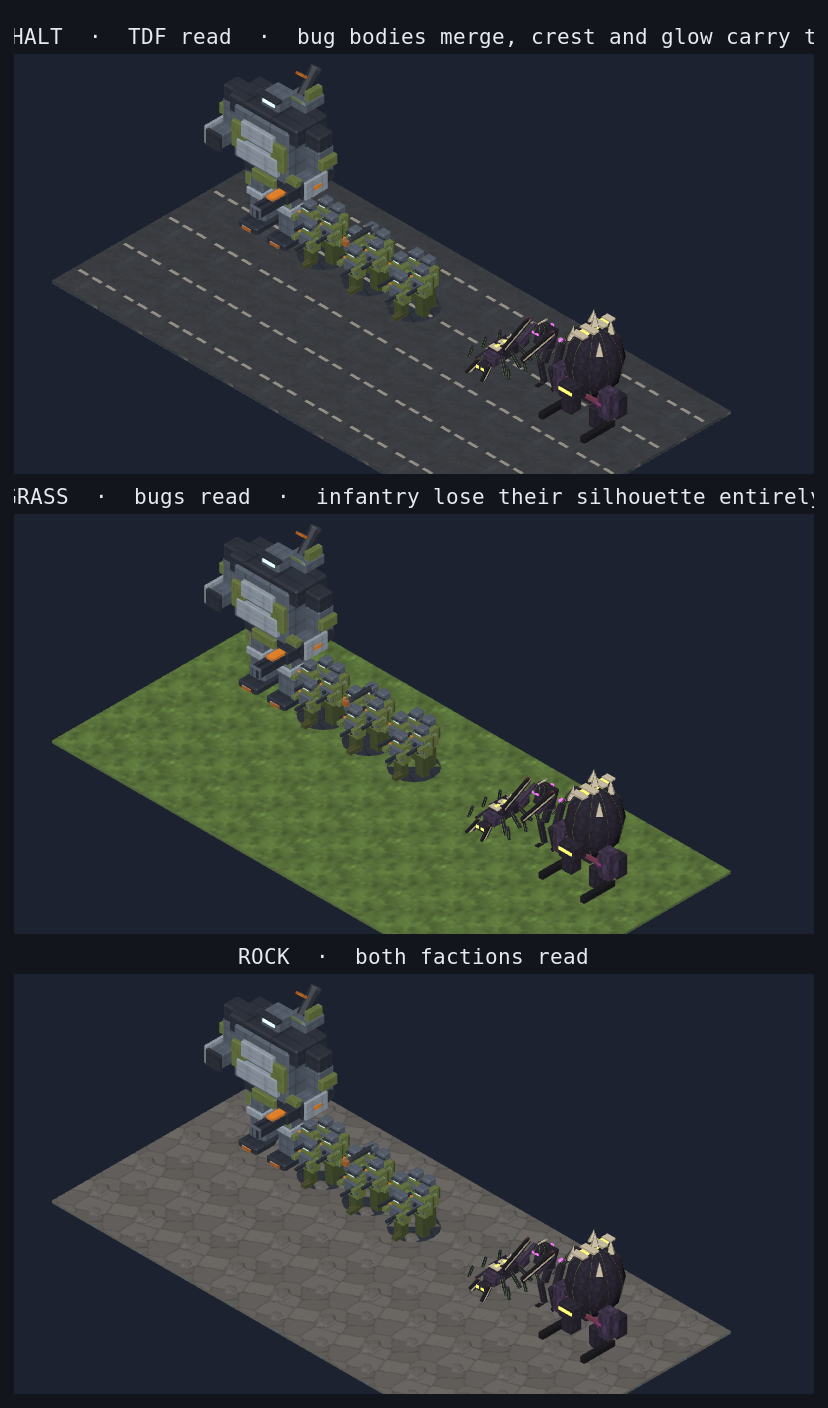
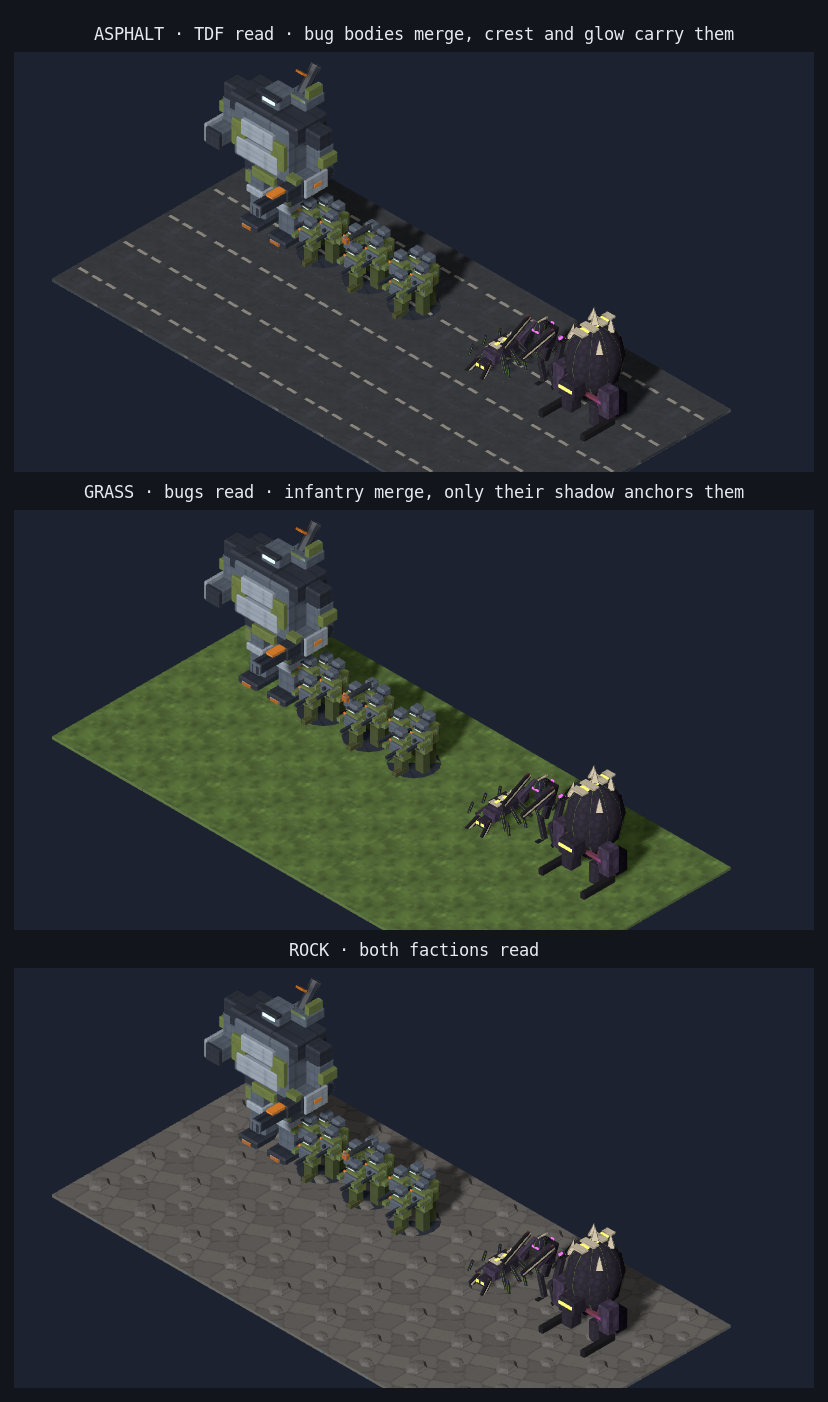
fix(graphics): name the shadow filter that actually runs, and light the read test like the game (#507)
Three follow-ups to #634, which shipped the shadows.

**The filter was not the one asked for.** three r185 deprecated
PCFSoftShadowMap: it silently falls back to PCFShadowMap and warns once
per scene. Confirmed on main -- two warnings a session in the e2e log.
So the code said soft, the comment explained why soft was chosen, and
hard PCF was what ran. Now it asks for what it gets, the log is quiet,
and the note says VSMShadowMap is the remaining soft option if the
edge is wanted back. Worth knowing for whoever weighs that: the 2048
map that timed the suite out was measured running this same filter,
since the soft one was never in play.

**The read test was lit differently from the game.** tools/art/preview
ran ambient 0.9 and key 2.2 with no shadows at all, against the game's
0.55 / 2.9 casting. §4.2.1 is the test that decides whether a faction
reads against a ground, and contact shadows are the one thing that
separates a shape from ground of its own tone -- so it was answering
the question under lighting the player never sees. It now uses the
shipped rig, and the committed plate is re-rendered under it.

**§12.1 still said "no shadow maps"** as a deliberate choice. It records
the shipped rig instead, with the frustum-follows-view reasoning, the
build-time flags, the filter trap above, and why the map is 1024.

Claude-Session: https://claude.ai/code/session_01WoHpNt23cPNbtTMc4rqhpF

diff --git a/tools/art/preview/scene.html b/tools/art/preview/scene.html
@@ -39,13 +39,30 @@
       });
       renderer.setSize(size, size);
       renderer.setPixelRatio(1);
+      renderer.shadowMap.enabled = true;
+      renderer.shadowMap.type = THREE.PCFShadowMap;
       document.body.appendChild(renderer.domElement);
       const scene = new THREE.Scene();
       scene.background = new THREE.Color(0x1c2230);
-      scene.add(new THREE.AmbientLight(0xffffff, 0.9));
-      const key = new THREE.DirectionalLight(0xffffff, 2.2);
-      key.position.set(2, 4, 3);
-      scene.add(key);
+      // The game's rig, from src/graphics/service/shadow-rig.ts and
+      // style guide §12.1 -- not a preview rig of its own. This page
+      // renders the read test (§4.2.1), and a read test lit differently
+      // from the game is testing a fiction: it used to run ambient 0.9
+      // against the game's 0.55, with no shadows at all, which is the
+      // one thing that separates a shape from ground of its own tone.
+      scene.add(new THREE.AmbientLight(0xffffff, 0.55));
+      const key = new THREE.DirectionalLight(0xffffff, 2.9);
+      key.castShadow = true;
+      key.shadow.mapSize.set(1024, 1024);
+      key.shadow.camera.left = -30;
+      key.shadow.camera.right = 30;
+      key.shadow.camera.top = 30;
+      key.shadow.camera.bottom = -30;
+      key.shadow.camera.near = 0.5;
+      key.shadow.camera.far = 120;
+      key.shadow.bias = -0.0015;
+      key.shadow.normalBias = 0.02;
+      scene.add(key, key.target);
       const units = size / px;
       const cam = new THREE.OrthographicCamera(
         -units / 2,
@@ -68,6 +85,11 @@
       );
       cam.lookAt(target);
       cam.updateProjectionMatrix();
+      // The frustum follows what is being looked at, as followCamera
+      // does in game; left at the origin it misses the subject.
+      key.position.set(target.x + 4, target.y + 8, target.z + 12);
+      key.target.position.copy(target);
+      key.target.updateMatrixWorld();
       const loader = new GLTFLoader();
       const cache = new Map();
       const load = (path) => {
@@ -79,6 +101,12 @@
         const node = gltf.scene.clone(true);
         node.position.set(p.x, p.y ?? 0, p.z);
         node.rotation.y = ((p.yaw ?? 0) * Math.PI) / 180;
+        node.traverse((c) => {
+          if (c.isMesh) {
+            c.castShadow = true;
+            c.receiveShadow = true;
+          }
+        });
         scene.add(node);
       }
       renderer.render(scene, cam);

diff --git a/src/graphics/service/scene-service.ts b/src/graphics/service/scene-service.ts
@@ -1,12 +1,6 @@
 import type { DirectionalLight } from "three";
 import type { Object3D } from "three";
-import {
-  AmbientLight,
-  Color,
-  Scene,
-  PCFSoftShadowMap,
-  WebGLRenderer,
-} from "three";
+import { AmbientLight, Color, Scene, PCFShadowMap, WebGLRenderer } from "three";
 
 import type { FrameUpdatable } from "../model/frame-updatable";
 import type { SceneCamera } from "../model/scene-camera";
@@ -82,10 +76,21 @@ export class SceneService {
 
     this.renderer = new WebGLRenderer({ antialias: true });
     this.renderer.setPixelRatio(window.devicePixelRatio);
-    // Cast shadows, so height reads (#507). Soft PCF because the hard
-    // edge of a 2048² map at this zoom looks like a seam, not a shadow.
+    // Cast shadows, so height reads (#507).
+    //
+    // `PCFShadowMap`, and not `PCFSoftShadowMap`, because three r185
+    // deprecated the latter: it silently falls back to exactly this and
+    // warns once per scene. Asking for it did not make the filter soft,
+    // it only made the code disagree with what was running -- and the
+    // e2e log carried two warnings a session saying so.
+    //
+    // If the softer edge is wanted back, `VSMShadowMap` is the option
+    // three still offers, and it is a real change with artefacts of its
+    // own rather than a one-word swap. Worth noting for whoever weighs
+    // that: the 2048 map that timed the suite out was measured running
+    // *this* filter, since the soft one was never in play.
     this.renderer.shadowMap.enabled = true;
-    this.renderer.shadowMap.type = PCFSoftShadowMap;
+    this.renderer.shadowMap.type = PCFShadowMap;
     container.appendChild(this.renderer.domElement);
 
     this.scene = new Scene();

diff --git a/docs/design/style-guide.md b/docs/design/style-guide.md
@@ -120,7 +120,7 @@ Rule: **`bug-bone` is what makes a bug readable, not the glow.** Dark chitin on 
 
 **Each faction has its own worst ground, and they are not the same ground.** The test used to be asphalt alone, described as "the darkest ground in the game and the worst case for either". It cannot be the worst case for either: the factions are different colours, so the ground that swallows one is the ground that shows off the other. Asphalt is where TDF read *best*, and testing there returned a clean bill of health for a faction that disappears on grass.
 
-Run all three after any change to a unit, a bug or a ground token:
+Run all three after any change to a unit, a bug or a ground token. The page lights with the game's rig, shadows included (§12.1) — a read test lit differently from the game is testing a fiction, and contact shadows are the one thing separating a shape from ground of its own tone:
 
 ```
 node tools/art/preview/render-scene.mjs tools/art/preview/layouts/asphalt-read.json out.png
@@ -347,7 +347,24 @@ One key and one fill, fixed — the camera rotates, the lights do not, so a give
 | Key, directional | white | 2.5 | `(4, 8, 12)` |
 | Ambient | white | 0.8 | — |
 
-The key is deliberately off-axis from all four yaw stops (§2): at every stop the two visible faces of a box shade differently, which is what gives a flat-shaded low-poly model its form. No shadow maps: at 64 px per tile a cast shadow costs more than it says, and the ambient at 0.8 keeps unlit faces readable rather than dramatic. Clear colour is `ui-bg #0B0D12`.
+The key is deliberately off-axis from all four yaw stops (§2): at every stop the two visible faces of a box shade differently, which is what gives a flat-shaded low-poly model its form. Clear colour is `ui-bg #0B0D12`.
+
+**The tactical scene casts shadows** (#507, shipped in #634). This section used to record "no shadow maps" as a deliberate choice, on the grounds that a cast shadow costs more than it says at 64 px per tile. That was decided before #505 put real buildings on the map, and it did not survive them: with nothing casting, a five-storey tower and a crate met the pavement the same way, and the height the city had just gained was invisible.
+
+| Light | Intensity | Position |
+|---|---|---|
+| Key, directional, casting | 2.9 | `(4, 8, 12)` from whatever it lights |
+| Ambient | 0.55 | — |
+
+**The fill drop is half the effect.** At 0.8 the fill washes every shadow into a grey smudge and the shadow map buys nothing for its milliseconds. Take the shadow map without the fill drop and it will not look like the render.
+
+Numbers live in `src/graphics/service/shadow-rig.ts`. Three things worth knowing before changing them:
+
+- **The frustum follows the view, not the map.** A `DirectionalLight` shadows only what its orthographic frustum covers, and that frustum is centred on the light's target — left at the origin it sits on the corner of a 40 × 40 map and shadows nothing the player is looking at. `followCamera` moves the light and its target together, so the direction never changes and the fixed-rig promise above holds.
+- **Cast and receive flags are set once, when the object is built**, on the map and the units — never by a traverse inside the render loop. Overlays and unit rings are deliberately left out: a move-range quad that cast a shadow would draw a second, offset copy of itself on the floor.
+- **The filter is `PCFShadowMap`.** three r185 deprecated `PCFSoftShadowMap`; asking for it silently gets this and warns once per scene, so the soft edge you think you specified is not the one running. `VSMShadowMap` is the remaining soft option and is a real change, not a one-word swap.
+
+The map is 1024², not 2048²: at this zoom it reads the same, and 2048 took the end-to-end suite from about 30 s to a minute and a half on software SwiftShader, timing two specs out.
 
 Consequence for models: **do not bake light into a texture.** An atlas cell that already has a top-left highlight fights the key light at two of the four yaw stops.
 
